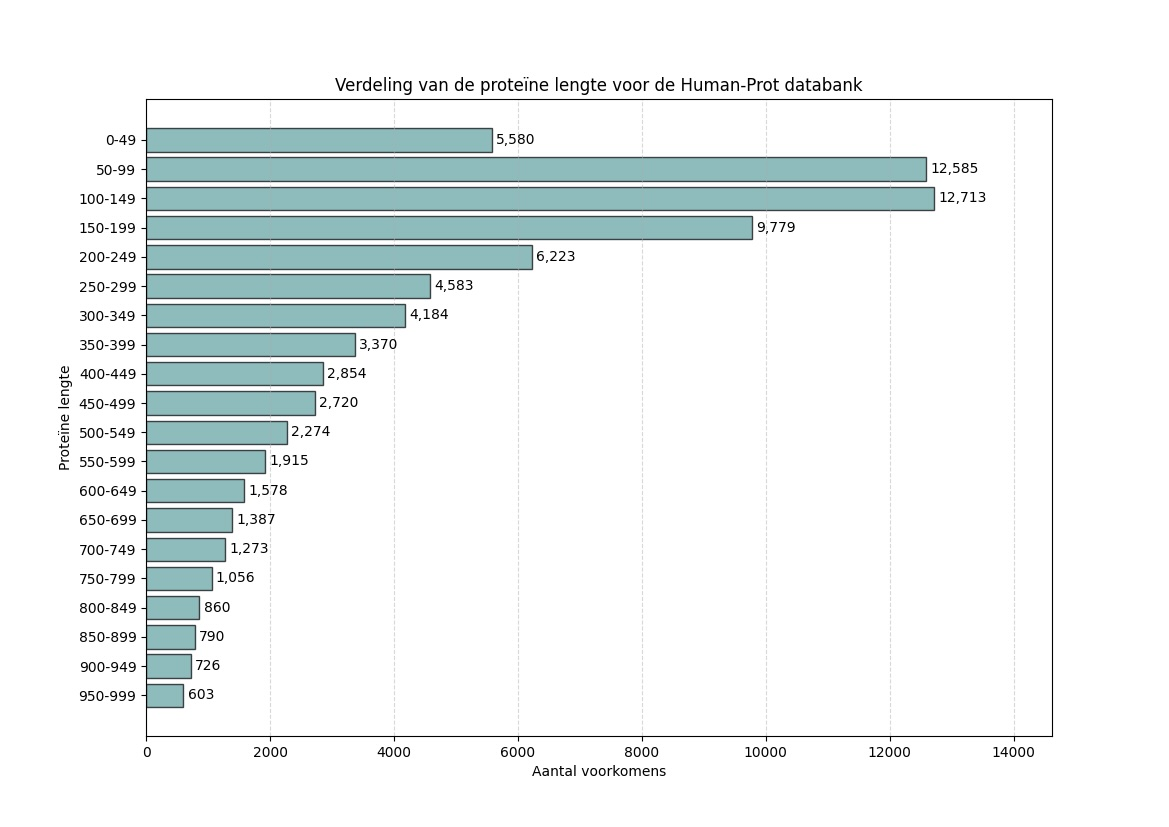
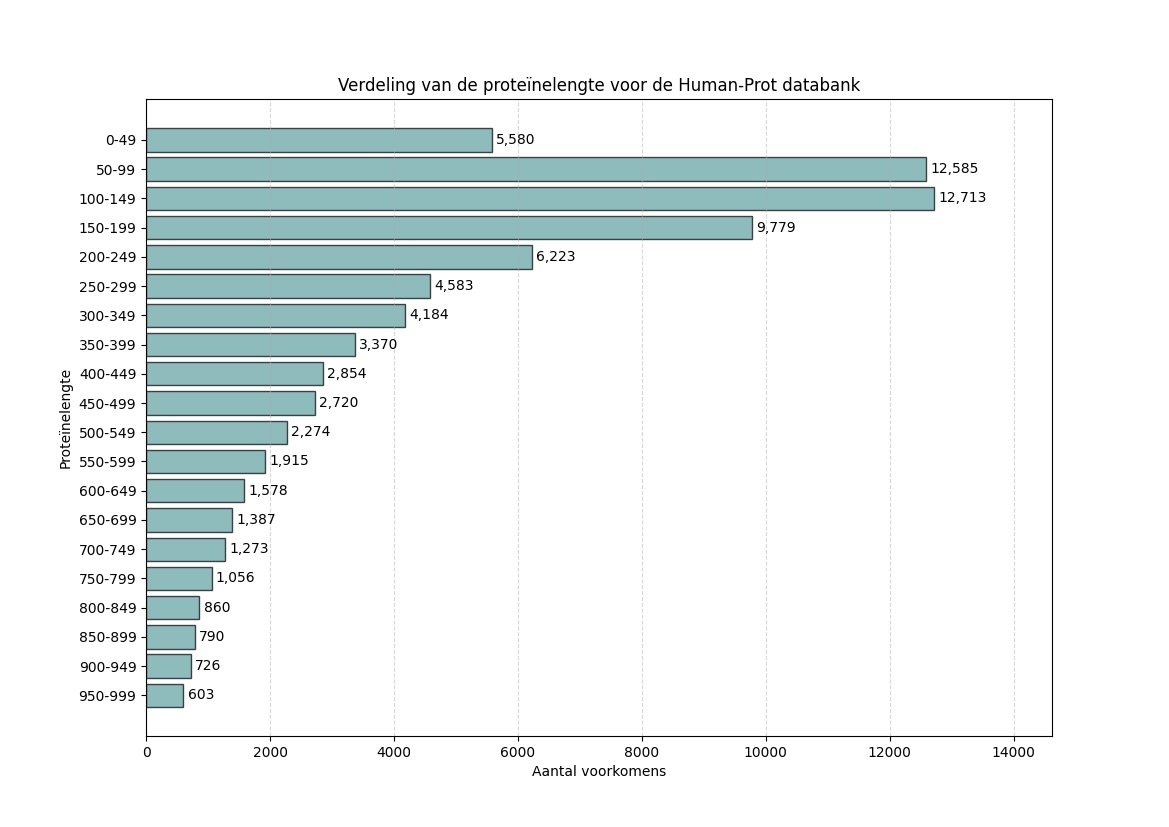
rest of main file and appendix a update using Pieters' suggestions

Changed region(s): [[0.2772, 0.0907, 0.7391, 0.1209], [0.0308, 0.4534, 0.0616, 0.5744]]

diff --git a/src/main.tex b/src/main.tex
@@ -74,6 +74,7 @@
 
 
     \section{Inleiding}\label{sec:inleiding}
+
     \subsection{genomica, transcriptomica \& proteomica}\label{subsec:genomica-transcriptomica-&-proteomica}
     Eiwitten zijn alomtegenwoordig en spelen een heel belangrijke rol in ons dagelijkse leven.
     Ze staan in voor de goede werking van belangrijke levensprocessen in ons lichaam, maar ook in dat van alle andere levende organismen zoals dieren, planten, bacteriën en zelfs virussen.
@@ -163,19 +164,19 @@
     Bovendien zijn sommige delen van Unipept al geschreven in Rust (zie UMGAP~\cite{UMGAP_paper, UMGAP_source}).
     Dit laat toe om waar mogelijk bestaande code te hergebruiken.
 
+
     \section{Benchmark Datasets}\label{sec:datasets}
 
     \subsection{Proteïne databanken}\label{subsec:proteine-databanken}
     Om te testen hoe goed een implementatie is en hoe deze vergelijkt met al bestaande implementaties is het belangrijk om enkele representatieve datasets te hebben.
-    De gebruikte datasets zijn allemaal eiwit databanken die een subset zijn van UniProtKB (meer specifiek UniProtKB 2023\_04)~\cite{UniprotKB}.
-    UniprotKB is een eiwit databank die in 2 grote delen op te splitsen valt (gegeven statistieken zijn voor release 2023\_04).
+    De gebruikte datasets zijn allemaal eiwitdatabanken die een subset vormen van UniProtKB (meer specifiek UniProtKB 2023\_04)~\cite{UniprotKB}.
+    UniprotKB is een eiwitdatabank die uit 2 grote delen bestaat (gegeven statistieken zijn voor release 2023\_04).
     \begin{enumerate}
-        \item Swiss-Prot: Dit is een kleinere, manueel gecureerde, dataset die 570 157 eiwit sequenties bevat.
+        \item Swiss-Prot: Dit is een kleinere, manueel gecureerde, dataset die 570 157 eiwitsequenties bevat.
         \item TrEMBL: Deze dataset bevat 251 600 768 sequenties en is dus veel groter dan Swiss-Prot.
         Het grote verschil is dat deze dataset \textbf{niet} manueel gecureerd is.
     \end{enumerate}
-
-    Om het benchmarken van implementaties praktisch te houden maak ik gebruik van 2 subsets hiervan.
+    Om het vergelijken van de performantie van verschillende implementaties praktisch te houden maak ik tijdens het testen gebruik van 2 subsets hiervan.
 
     \paragraph{Swiss-Prot} Dit is de standaard Swiss-Prot databank die deel is van UniProt (zoals eerder uitgelegd).
     Een kort overzicht van alle statistieken is terug te vinden in tabel~\ref{tab:swissprot_eigenschappen} terwijl figuur~\ref{fig:swissprot_aminozuur} en figuur~\ref{fig:swissprot_length} meer inzicht geven in de distributie van de aminozuren en lengte van de proteïnen.
@@ -183,14 +184,14 @@
     \begin{table}[h!]
         \centering
         \begin{tabular}{c c}
-            Metriek                    & Waarde      \\
+            Metriek                   & Waarde      \\
             \hline\hline
-            Totaal aantal sequenties   & 569 619     \\
-            Totale lengte              & 205 954 074 \\
-            Minimale proteïne lengte   & 2           \\
-            Maximale proteïne lengte   & 35 213      \\
-            Gemiddelde proteïne lengte & 361.56      \\
-            Mediaan proteïne lengte    & 295         \\
+            Totaal aantal sequenties  & 569 619     \\
+            Totale lengte             & 205 954 074 \\
+            Minimale proteïnelengte   & 2           \\
+            Maximale proteïnelengte   & 35 213      \\
+            Gemiddelde proteïnelengte & 361.56      \\
+            Mediaan proteïnelengte    & 295         \\
             \hline
         \end{tabular}
         \caption{Eigenschappen van de Swiss-Prot databank}
@@ -207,18 +208,18 @@
 
     \begin{figure}[H]
         \centering
-        \subfloat[Overzicht van lengte distributie alle proteïnen]{\includegraphics[width=0.5\linewidth]{swissprot_length_distribution_large}}
-        \subfloat[Ingezoomd beeld van de lengtedistributie tot 1000 aminozuren lang]{\includegraphics[width=0.5\linewidth]{swissprot_length_distribution_small}}
+        \subfloat[Overzicht van de lengtedistributie van alle proteïnen]{\includegraphics[width=0.485\linewidth]{swissprot_length_distribution_large}}
+        \subfloat[Ingezoomd beeld van de lengtedistributie tot 1000 aminozuren lang]{\includegraphics[width=0.485\linewidth]{swissprot_length_distribution_small}}
         \caption{Lengtedistributie van de proteïnen in de Swiss-Prot databank}\label{fig:swissprot_length}
     \end{figure}
 
     Een klein detail dat valt op te merken is dat in tabel~\ref{tab:swissprot_eigenschappen} het totaal aantal sequenties iets kleiner is dan wat eerder aangegeven is.
-    Dit is omdat het gebruikte input bestand een bestand is dat al door een deel van de Unipept pipeline verwerkt is.
-    Hierbij worden sequenties met een taxon id dat niet in de Unipept databank zit verwijderd, wat het kleine verschil verklaart.
+    Dit is omdat het gebruikte invoerbestand een bestand is dat al door een deel van de Unipept pipeline verwerkt werd.
+    Hierbij worden sequenties met een onbekend taxon id verwijderd, wat het kleine verschil verklaart.
 
     \paragraph{Human-Prot} Deze dataset is samengesteld aan de hand van 3 referentiedatabanken die deel uit maken van UniProtKB\@.
     Deze werd geleverd aan me door mijn begeleider Pieter Verschaffelt.
-    De 3 datasets waaruit dit opgebouwd is zijn:
+    De 3 datasets waaruit dit opgebouwd is, zijn:
     \begin{enumerate}
         \item Human Genome~\cite{proteomes_homo_sapiens}
         \item Influenza B~\cite{proteomes_infuenza_b}
@@ -232,14 +233,14 @@
     \begin{table}[h!]
         \centering
         \begin{tabular}{ c c }
-            Metriek                    & Waarde     \\
+            Metriek                   & Waarde     \\
             \hline\hline
-            Totaal aantal sequenties   & 82 695     \\
-            Totale lengte              & 30 293 046 \\
-            Minimale proteïne lengte   & 2          \\
-            Maximale proteïne lengte   & 35 991     \\
-            Gemiddelde proteïne lengte & 366.32     \\
-            Mediaan proteïne lengte    & 204        \\
+            Totaal aantal sequenties  & 82 695     \\
+            Totale lengte             & 30 293 046 \\
+            Minimale proteïnelengte   & 2          \\
+            Maximale proteïnelengte   & 35 991     \\
+            Gemiddelde proteïnelengte & 366.32     \\
+            Mediaan proteïnelengte    & 204        \\
             \hline
         \end{tabular}
         \caption{Eigenschappen van de Human-Prot databank}
@@ -255,12 +256,12 @@
 
     \begin{figure}[H]
         \centering
-        \subfloat[Overzicht van lengte distributie alle proteïnen]{\includegraphics[width=0.5\linewidth]{humanprot_length_distribution_large}}
+        \subfloat[Overzicht van de lengtedistributie van alle proteïnen]{\includegraphics[width=0.5\linewidth]{humanprot_length_distribution_large}}
         \subfloat[Ingezoomd beeld van de lengtedistributie tot 1000 aminozuren lang]{\includegraphics[width=0.5\linewidth]{humanprot_length_distribution_small}}
         \caption{Lengtedistributie van de proteïnen in de Human-Prot databank}\label{fig:humanprot_length}
     \end{figure}
 
-    Enkele belangrijke conclusies dat we hier al uit kunnen trekken zijn dat dat zo goed als alle letters gebruikt worden (ook al zijn er maar 20 aminozuren).
+    Enkele belangrijke conclusies die we hier al uit kunnen trekken zijn dat zo goed als alle letters gebruikt worden (ook al zijn er maar 20 aminozuren).
     Dit komt doordat sommige letters eigenlijk een soort wildcard voorstellen.
     Zo staat ``X'' voor elk mogelijk aminozuur, ``Z'' voor ``Q'' of ``E'',\ldots
 
@@ -268,16 +269,17 @@
     Het zwaartepunt van het aantal voorkomens ligt bij Swiss-Prot wel iets later (rond 100 vs rond 200).
 
     \subsection{Peptide zoekbestanden}\label{subsec:peptide-zoek-bestanden}
-    Natuurlijk is een erg belangrijk deel van het opbouwen van een indexstructuur de zoekperformantie.
-    Hiervoor hebben we bij elke proteïnen databank een lijst aan peptiden die we proberen te zoeken.
-    Voor onze beide databanken zijn enkele datasets opgesteld.
+    Natuurlijk is een erg belangrijk aspect van een indexstructuur de zoekperformantie.
+    Hiervoor hebben we bij elke eiwitdatabank een lijst aan peptiden die we proberen te zoeken.
+    Voor beide databanken zijn enkele datasets opgesteld.
 
-    \subsubsection{Swiss-prot} Voor deze databank hebben we enkele zoekbestanden voorzien.
-    2 bestanden die gesampled zijn en een reeks aan real-life stalen.
-    De 2 gesamplede bestanden zijn zo gekozen dat de ene enkel tryptische peptiden bevat, terwijl de andere ook peptiden bevat met \textit{missed cleavage}.
-    De eerste kan dus op dit moment al efficiënt door Unipept behandeld worden, terwijl dit voor de 2e niet kan.
+    \subsubsection{Swiss-prot}
+    Voor deze databank hebben we enkele zoekbestanden voorzien.
+    Twee bestanden die gesampled zijn en een reeks aan real-life stalen.
+    De twee gesamplede bestanden zijn zo gekozen dat de ene enkel tryptische peptiden bevat, terwijl de andere ook peptiden bevat met \textit{missed cleavage}.
+    De eerste kan dus op dit moment al efficiënt door Unipept behandeld worden, terwijl dit voor de tweede niet kan.
 
-    \paragraph{Sampled}
+    \paragraph{Artificiële stalen}
     Een kort overzicht van enkele statistieken over de gesamplede bestanden valt te zien in respectievelijk tabel~\ref{tab:swiss_geen_missed_cleavage} en tabel~\ref{tab:swiss_missed_cleavage}.
 
     \begin{table}[!h]
@@ -288,10 +290,10 @@
                 \hline\hline
                 Totaal aantal sequenties   & 100 000   \\
                 Totale lengte              & 1 605 909 \\
-                Minimale proteïne lengte   & 5         \\
-                Maximale proteïne lengte   & 50        \\
-                Gemiddelde proteïne lengte & 16.06     \\
-                Mediaan proteïne lengte    & 13        \\
+                Minimale proteïnelengte    & 5         \\
+                Maximale proteïnelengte    & 50        \\
+                Gemiddelde proteïnelengte  & 16.06     \\
+                Mediaan proteïnelengte     & 13        \\
                 Aantal vindbare peptiden   & 67 375    \\
                 Aantal tryptische peptiden & 100 000   \\
                 \hline
@@ -306,10 +308,10 @@
                 \hline\hline
                 Totaal aantal sequenties   & 100 000   \\
                 Totale lengte              & 2 544 356 \\
-                Minimale proteïne lengte   & 5         \\
-                Maximale proteïne lengte   & 93        \\
-                Gemiddelde proteïne lengte & 25.44     \\
-                Mediaan proteïne lengte    & 23        \\
+                Minimale proteïnelengte    & 5         \\
+                Maximale proteïnelengte    & 93        \\
+                Gemiddelde proteïnelengte  & 25.44     \\
+                Mediaan proteïnelengte     & 23        \\
                 Aantal vindbare peptiden   & 62 581    \\
                 Aantal tryptische peptiden & 4107      \\
                 \hline
@@ -319,9 +321,8 @@
         \end{minipage}
     \end{table}
 
-    \paragraph{Real-life stalen}
-    Om een beter beeld te krijgen over de performantie worden ook enkele real-life stalen uit een kleine micro-organisme gemeenschap gebruikt.
-    Namelijk uit SIHUMIx\footnote{SImplified HUMan Intestinal microbiota}\cite{SIHUMI_first_introduction, SIHUMI_frequently_used}.
+    \paragraph{Experimentele stalen}
+    Om een beter beeld te krijgen over de performantie worden ook enkele stalen gebruikt die komen uit experimenten met een kleine micro-organisme gemeenschap, namelijk SIHUMIx\footnote{SImplified HUMan Intestinal microbiota}\cite{SIHUMI_first_introduction, SIHUMI_frequently_used}.
     Aangezien dit effectieve stalen zijn bevatten deze \textit{missed cleavages} die natuurlijk ontstaan zijn.
     Opnieuw wordt een overzicht van enkele eigenschappen gegeven in de volgende tabel.
     Elke \texttt{S<XX>} kolom stelt de waarden voor staal met bestandsnaam \texttt{S<XX>.txt} voor.
@@ -334,10 +335,10 @@
             \hline\hline
             Totaal aantal sequenties   & 25 000  & 25 000  & 24 424  & 25 000  & 25 000  & 25 000  \\
             Totale lengte              & 420 544 & 420 423 & 373 633 & 316 114 & 366 922 & 430 674 \\
-            Minimale proteïne lengte   & 6       & 6       & 6       & 6       & 6       & 6       \\
-            Maximale proteïne lengte   & 50      & 50      & 47      & 43      & 50      & 50      \\
-            Gemiddelde proteïne lengte & 16.82   & 16.82   & 15.30   & 12.64   & 14.68   & 17.23   \\
-            Mediaan proteïne lengte    & 15      & 16      & 14      & 12      & 14      & 16      \\
+            Minimale proteïnelengte    & 6       & 6       & 6       & 6       & 6       & 6       \\
+            Maximale proteïnelengte    & 50      & 50      & 47      & 43      & 50      & 50      \\
+            Gemiddelde proteïnelengte  & 16.82   & 16.82   & 15.30   & 12.64   & 14.68   & 17.23   \\
+            Mediaan proteïnelengte     & 15      & 16      & 14      & 12      & 14      & 16      \\
             Aantal vindbare peptiden   & 2570    & 2698    & 3652    & 4135    & 3792    & 2761    \\
             Aantal tryptische peptiden & 17 263  & 162     & 152     & 207     & 155     & 242     \\
             \hline
@@ -347,8 +348,8 @@
     \end{table}
 
     \subsubsection{Human-Prot}
-    Voor deze databank hebben we 1 zoekbestand voorzien.
-    Dit bestand bevat niet-tryptische peptiden, waardoor het dus op dit moment niet te zoeken valt in Unipept.
+    Voor deze databank hebben we 1 zoekbestand bestaande uit HLA peptiden voorzien.
+    Dit zijn korte niet-tryptische peptiden uit het immunopeptidomics onderzoeksveld, waardoor het dus op dit moment niet te zoeken valt in Unipept.
     Aangezien de dataset waarbij dit zoekbestand hoort zelf samengesteld is, hebben we ook zelf willekeurige samples genomen om een zoekbestand op te stellen.
     Hierdoor is elk van de peptiden die we zullen proberen te vinden effectief vindbaar in de dataset.
     Een kort overzicht van enkele eigenschappen is terug te vinden in tabel~\ref{tab:humanprot_zoekbestand}
@@ -360,10 +361,10 @@
             \hline\hline
             Totaal aantal sequenties   & 250000        \\
             Totale lengte              & 2 458 834 046 \\
-            Minimale proteïne lengte   & 1             \\
-            Maximale proteïne lengte   & 12            \\
-            Gemiddelde proteïne lengte & 9.84          \\
-            Mediaan proteïne lengte    & 10            \\
+            Minimale peptidelengte     & 1             \\
+            Maximale peptidelengte     & 12            \\
+            Gemiddelde peptidelengte   & 9.84          \\
+            Mediaan peptidelengte      & 10            \\
             Aantal vindbare peptiden   & 250 000       \\
             Aantal tryptische peptiden & 102 659       \\
             \hline
@@ -374,7 +375,8 @@
 
 
     Nog extra grafieken die eigenschappen van de bovenstaand beschreven zoekbestanden zijn terug te vinden in appendix~\ref{ch:appendix-statistieken-zoekbestanden}.
-    Deze appendix bevat voor elk van de al vermeldde zoekbestanden een grafiek die de distributie van de aminozuren geeft en de distributie van de peptide lengte.
+    Deze appendix bevat voor elk van de al vermeldde zoekbestanden een grafiek die de distributie van de aminozuren geeft en de distributie van de peptidelengte.
+
 
     \section{Benchmark hardware}\label{sec:benchmark-hardware}
     Alle benchmarks zijn uitgevoerd op een virtuele machine op een server die beheerd wordt door Unipept.
@@ -383,12 +385,12 @@
     \begin{table}[h!]
         \centering
         \begin{tabular}{p{0.35\linewidth} p{0.6\linewidth}}
-            Onderdeel         &                                                                           \\
+            Onderdeel         &                                                                         \\
             \hline\hline
-            CPU               & 2x Intel Xeon 4410Y (12 cores / 24 threads, 2-3.9 GhZ, 30MiB cache)       \\
-            RAM               & 768 GiB                                                                   \\
+            CPU               & 2x Intel Xeon 4410Y (12 cores / 24 threads, 2-3.9 GhZ, 30MiB cache)     \\
+            RAM               & 768 GiB                                                                 \\
             Opslag            & 6x 16TiB HDD (3.5 inch, 7.2K RPM SATA), 4x 3.84TiB (2.5 inch SSD, SATA) \\
-            Besturingssysteem & Debian 12 (met Proxmox)                                                   \\
+            Besturingssysteem & Debian 12 (met Proxmox)                                                 \\
             \hline
         \end{tabular}
         \caption{Hardware specificaties \textit{Matt}}
